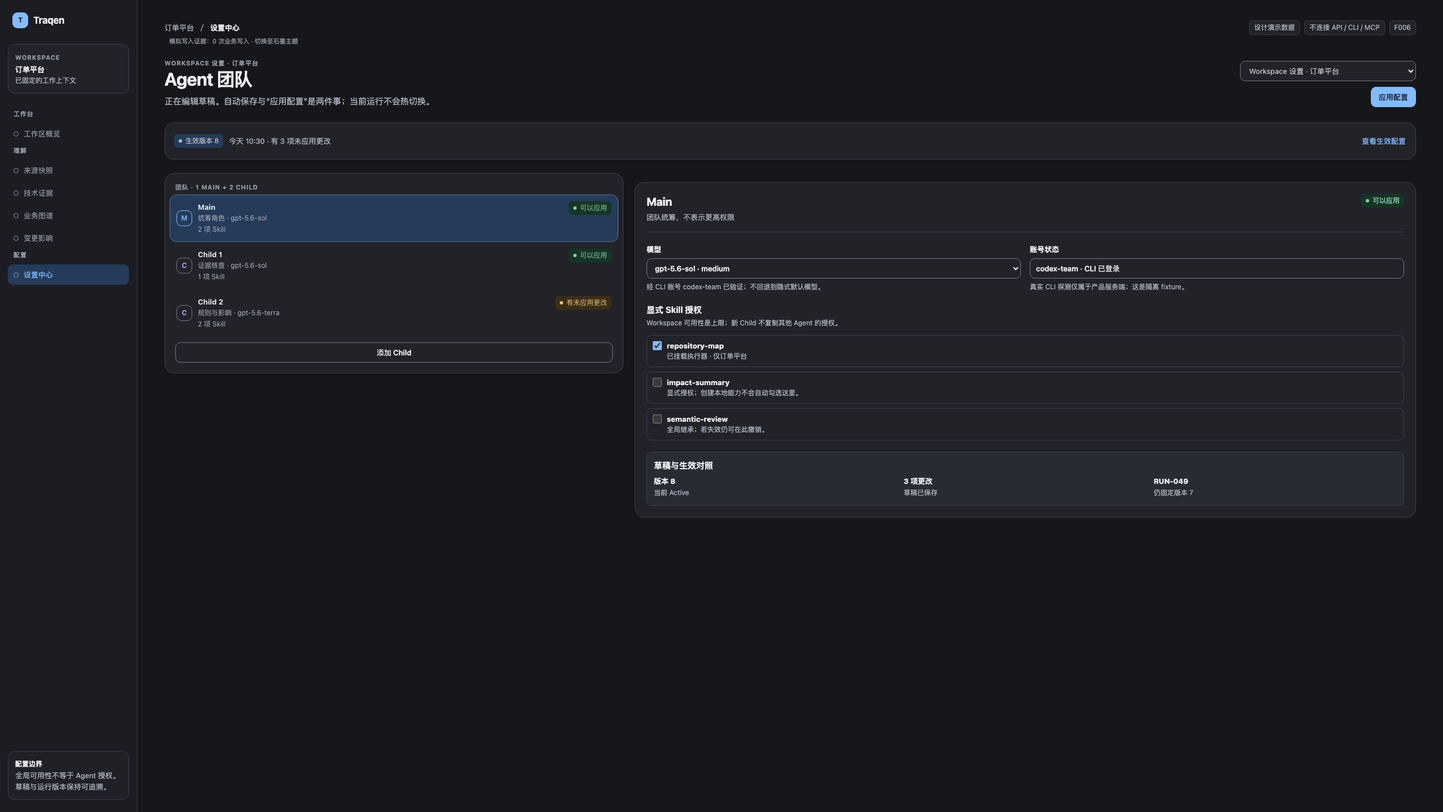
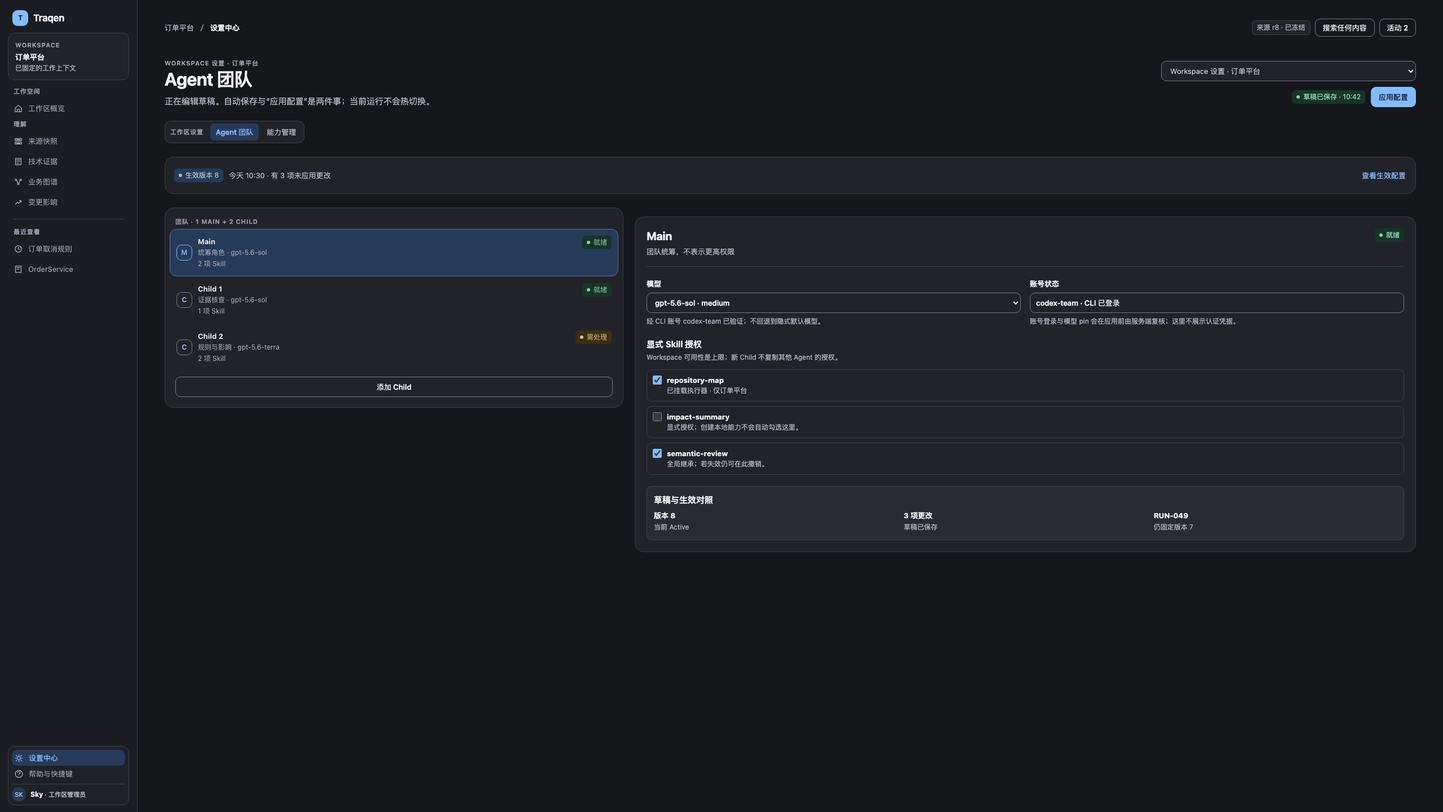
docs(f006): align pending UX review with F005 shell
Why: make the isolated F006 effect prototype faithfully use the F005 desktop shell, preserve honest draft versus Apply states, and freeze reviewable visual evidence without claiming operator approval.\n\n[搬砖工/gpt-5.6-terra🐾]

diff --git a/docs/design/F006-workspace-capability-settings/ux-v1.0/assets/prototype.html b/docs/design/F006-workspace-capability-settings/ux-v1.0/assets/prototype.html
@@ -30,20 +30,24 @@
     button:disabled { cursor: not-allowed; opacity: .54; }
     :focus-visible { outline: 3px solid var(--focus); outline-offset: 3px; }
     .shell { min-height: 100vh; display: grid; grid-template-columns: var(--sidebar) minmax(0, 1fr); }
-    .side { background: var(--nav); border-right: 1px solid var(--line); padding: 22px 14px; display: flex; flex-direction: column; gap: 28px; }
+    .side { background: var(--nav); border-right: 1px solid var(--line); padding: 18px 14px 12px; display: flex; flex-direction: column; gap: 12px; }
     .brand { display: flex; align-items: center; gap: 9px; padding: 0 8px; font-size: 17px; font-weight: 650; letter-spacing: -.2px; }
     .brand-mark { width: 28px; height: 28px; display: grid; place-items: center; border-radius: 9px; background: var(--blue); color: var(--on-blue); font-size: 12px; font-weight: 700; }
-    .workspace-chip { padding: 12px; border: 1px solid var(--line); background: var(--surface); border-radius: 12px; }
+    .workspace-chip { padding: 10px 12px; border: 1px solid var(--line); background: var(--surface); border-radius: 12px; }
     .workspace-chip small, .nav-label, .eyebrow { color: var(--meta); font-size: 11px; line-height: 16px; letter-spacing: .08em; text-transform: uppercase; font-weight: 650; }
     .workspace-chip strong { display: block; margin-top: 2px; font-size: 13px; }
-    .nav-group { display: grid; gap: 4px; }
-    .nav-label { padding: 0 10px 5px; }
-    .nav-item { min-height: 36px; width: 100%; padding: 0 10px; display: flex; gap: 9px; align-items: center; text-align: left; border: 0; border-radius: 9px; background: transparent; color: var(--muted); }
-    .nav-item::before { content: ""; width: 7px; height: 7px; border: 1.5px solid currentColor; border-radius: 50%; opacity: .8; }
+    .nav-group, .recent-list { display: grid; gap: 4px; }
+    .nav-label { padding: 0 10px 2px; }
+    .nav-item { min-height: 32px; width: 100%; padding: 0 10px; display: flex; gap: 9px; align-items: center; text-align: left; border: 0; border-radius: 9px; background: transparent; color: var(--muted); }
+    .nav-icon { width: 17px; height: 17px; flex: none; fill: none; stroke: currentColor; stroke-width: 1.7; stroke-linecap: round; stroke-linejoin: round; }
     .nav-item.current { color: var(--blue); background: var(--blue-soft); font-weight: 600; }
-    .side-foot { margin-top: auto; padding: 12px; border: 1px solid var(--line); border-radius: 12px; color: var(--muted); background: color-mix(in srgb, var(--surface) 72%, transparent); }
-    .side-foot strong { color: var(--text); display: block; font-size: 12px; }
-    main { min-width: 0; padding: 24px var(--gutter) 86px; }
+    .side-rule { height: 1px; background: var(--line); margin: 2px 10px; }
+    .side-foot { margin-top: auto; padding: 6px; border: 1px solid var(--line); border-radius: 12px; color: var(--muted); background: color-mix(in srgb, var(--surface) 72%, transparent); }
+    .side-foot .nav-item { min-height: 28px; padding: 0 4px; }
+    .account { display: grid; grid-template-columns: 25px minmax(0,1fr); gap: 8px; align-items: center; margin-top: 4px; padding-top: 5px; border-top: 1px solid var(--line); }
+    .account-avatar { width: 25px; height: 25px; display: grid; place-items: center; border-radius: 50%; background: var(--blue-soft); color: var(--blue); font-size: 10px; font-weight: 700; }
+    .account strong { display: block; color: var(--text); font-size: 12px; line-height: 16px; } .account span { color: var(--muted); font-size: 11px; font-weight: 500; }
+    main { min-width: 0; padding: 24px var(--gutter) 32px; }
     .topline { min-height: 34px; display: flex; align-items: center; justify-content: space-between; gap: 20px; color: var(--muted); }
     .crumb { display: flex; gap: 8px; align-items: center; white-space: nowrap; }
     .crumb b { color: var(--text); font-weight: 600; }
@@ -61,6 +65,10 @@
     .summary-row { margin-top: 24px; padding: 14px 16px; display: flex; justify-content: space-between; align-items: center; gap: 18px; border: 1px solid var(--line); border-radius: 16px; background: var(--surface); }
     .summary-row .summary-copy { display: flex; align-items: center; gap: 10px; min-width: 0; } .summary-row .summary-copy span { color: var(--muted); }
     .scope-select { min-height: 36px; border: 1px solid var(--control); border-radius: 9px; padding: 0 29px 0 11px; background: var(--surface); color: var(--text); }
+    .settings-secondary { margin-top: 21px; display: flex; align-items: center; gap: 4px; padding: 4px; width: fit-content; border: 1px solid var(--line); border-radius: 11px; background: var(--surface); }
+    .settings-secondary span { padding: 0 8px 0 5px; color: var(--meta); font-size: 11px; font-weight: 650; letter-spacing: .07em; text-transform: uppercase; }
+    .settings-secondary button { min-height: 30px; padding: 0 10px; border: 0; border-radius: 7px; background: transparent; color: var(--muted); font-weight: 550; }
+    .settings-secondary button.active { background: var(--blue-soft); color: var(--blue); }
     .content { margin-top: 24px; }
     .panel { border: 1px solid var(--line); border-radius: 16px; background: var(--surface); } .panel.pad { padding: 20px; } .panel + .panel { margin-top: 16px; }
     .section-head { display: flex; align-items: center; justify-content: space-between; gap: 16px; margin-bottom: 16px; } .section-head > p { color: var(--muted); }
@@ -83,8 +91,9 @@
     .versions { display: grid; grid-template-columns: minmax(0,1.25fr) minmax(290px,.75fr); gap: 20px; } .version-number { font-size: 28px; line-height: 38px; font-weight: 650; letter-spacing: -.3px; } .key-value { display: flex; justify-content: space-between; gap: 14px; padding: 11px 0; border-top: 1px solid var(--line); } .key-value span { color: var(--muted); } .key-value b { text-align: right; }
     .f003-grid { display: grid; grid-template-columns: minmax(0,1fr) minmax(290px,.82fr); gap: 20px; } .checklist { display: grid; gap: 8px; margin-top: 14px; } .checklist div { display: flex; gap: 9px; align-items: flex-start; padding: 10px; border: 1px solid var(--line); border-radius: 9px; } .checklist i { width: 16px; height: 16px; border-radius: 50%; background: var(--success); color: var(--on-blue); font-style: normal; font-size: 11px; line-height: 16px; text-align: center; flex: none; }
     dialog { width: min(520px, calc(100vw - 48px)); padding: 0; border: 1px solid var(--line); border-radius: 16px; background: var(--surface); color: var(--text); box-shadow: var(--shadow); } dialog::backdrop { background: rgba(18,20,26,.48); } .dialog-inner { padding: 24px; } .dialog-inner p { margin-top: 7px; color: var(--muted); font-size: 15px; line-height: 24px; } .dialog-actions { display: flex; justify-content: flex-end; gap: 9px; margin-top: 22px; }
-    .fixture-tools { position: static; width: fit-content; margin: 12px 16px 16px auto; max-width: min(470px, calc(100vw - 32px)); padding: 10px 12px; display: flex; align-items: center; gap: 9px; border: 1px dashed var(--control); border-radius: 12px; background: color-mix(in srgb, var(--surface) 94%, transparent); box-shadow: 0 8px 24px rgba(0,0,0,.10); color: var(--muted); } .fixture-tools strong { color: var(--text); font-size: 12px; } .fixture-tools label { display: inline-flex; gap: 6px; align-items: center; color: var(--muted); font-size: 12px; font-weight: 500; } .fixture-tools select { width: 122px; min-height: 30px; padding: 0 7px; } .theme-toggle { display: inline-flex; border: 1px solid var(--control); border-radius: 9px; overflow: hidden; } .theme-toggle button { min-height: 30px; padding: 0 8px; border: 0; background: transparent; color: var(--muted); } .theme-toggle button[aria-pressed="true"] { background: var(--blue-soft); color: var(--blue); font-weight: 650; }
-    .fixture-log { position: fixed; left: calc(var(--sidebar) + var(--gutter)); top: 61px; z-index: 4; max-width: 360px; padding: 4px 8px; border-radius: 6px; background: color-mix(in srgb, var(--page) 94%, transparent); color: var(--meta); font-size: 11px; line-height: 16px; }
+    .fixture-controls { display: flex; justify-content: flex-end; align-items: center; gap: 10px; width: fit-content; max-width: calc(100vw - 32px); margin: 16px 16px 28px auto; padding: 10px 12px; border: 1px dashed var(--control); border-radius: 12px; background: color-mix(in srgb, var(--surface) 94%, transparent); box-shadow: 0 8px 24px rgba(0,0,0,.10); color: var(--muted); }
+    .fixture-tools { display: flex; align-items: center; gap: 9px; } .fixture-tools strong { color: var(--text); font-size: 12px; } .fixture-tools label { display: inline-flex; gap: 6px; align-items: center; color: var(--muted); font-size: 12px; font-weight: 500; } .fixture-tools select { width: 122px; min-height: 30px; padding: 0 7px; } .theme-toggle { display: inline-flex; border: 1px solid var(--control); border-radius: 9px; overflow: hidden; } .theme-toggle button { min-height: 30px; padding: 0 8px; border: 0; background: transparent; color: var(--muted); } .theme-toggle button[aria-pressed="true"] { background: var(--blue-soft); color: var(--blue); font-weight: 650; }
+    .fixture-log { max-width: 290px; color: var(--meta); font-size: 11px; line-height: 16px; }
     @media (min-width: 1920px) { :root { --sidebar: 244px; --gutter: 48px; } main { padding-top: 32px; } .team-grid { grid-template-columns: minmax(390px,.74fr) minmax(670px,1.26fr); } .detail { min-height: 554px; } .page-head { margin-top: 38px; } .wide-only { display: block; margin-top: 20px; padding: 12px; border: 1px solid var(--line); border-radius: 9px; background: var(--surface-2); } .wide-only-grid { display: grid; grid-template-columns: repeat(3, minmax(0,1fr)); gap: 12px; margin-top: 7px; } .wide-only-grid b { display: block; font-size: 13px; } .wide-only-grid span { color: var(--muted); font-size: 12px; } }
     @media (max-width: 1320px) { :root { --gutter: 28px; } .team-grid { grid-template-columns: minmax(272px,.7fr) minmax(0,1.3fr); gap: 16px; } .status-pills .quiet-status:nth-child(2) { display: none; } }
     @media (prefers-reduced-motion: reduce) { *, *::before, *::after { scroll-behavior: auto !important; transition: none !important; animation: none !important; } }
@@ -96,21 +105,30 @@
       <div class="brand"><span class="brand-mark">T</span>Traqen</div>
       <div class="workspace-chip"><small>Workspace</small><strong>订单平台</strong><span class="subtle">已固定的工作上下文</span></div>
       <nav class="nav-group" aria-label="工作区导航">
-        <span class="nav-label">工作台</span><button class="nav-item">工作区概览</button>
-        <span class="nav-label">理解</span><button class="nav-item">来源快照</button><button class="nav-item">技术证据</button><button class="nav-item">业务图谱</button><button class="nav-item">变更影响</button>
-        <span class="nav-label">配置</span><button class="nav-item current" aria-current="page">设置中心</button>
+        <span class="nav-label">工作空间</span>
+        <button class="nav-item"><svg class="nav-icon" viewBox="0 0 24 24"><path d="m4 11 8-7 8 7v9H4zM9 20v-6h6v6"/></svg>工作区概览</button>
+        <span class="nav-label">理解</span>
+        <button class="nav-item"><svg class="nav-icon" viewBox="0 0 24 24"><path d="M4 5h16v5H4zM4 14h16v5H4zM8 8h8M8 17h8"/></svg>来源快照</button>
+        <button class="nav-item"><svg class="nav-icon" viewBox="0 0 24 24"><path d="M5 4h14v16H5zM8 8h8M8 12h8M8 16h5"/></svg>技术证据</button>
+        <button class="nav-item"><svg class="nav-icon" viewBox="0 0 24 24"><circle cx="6" cy="7" r="2"/><circle cx="18" cy="7" r="2"/><circle cx="12" cy="17" r="2"/><path d="m8 8.5 2.5 6M16 8.5l-2.5 6"/></svg>业务图谱</button>
+        <button class="nav-item"><svg class="nav-icon" viewBox="0 0 24 24"><path d="M5 17 10 12l3 3 6-7M15 8h4v4"/></svg>变更影响</button>
       </nav>
-      <div class="side-foot"><strong>配置边界</strong>全局可用性不等于 Agent 授权。草稿与运行版本保持可追溯。</div>
+      <div class="side-rule" aria-hidden="true"></div>
+      <section class="recent-list" data-testid="recent-viewed" aria-label="最近查看"><span class="nav-label">最近查看</span><button class="nav-item"><svg class="nav-icon" viewBox="0 0 24 24"><circle cx="12" cy="12" r="8"/><path d="M12 8v4l3 2"/></svg>订单取消规则</button><button class="nav-item"><svg class="nav-icon" viewBox="0 0 24 24"><path d="M5 4h14v16H5zM8 8h8M8 12h5"/></svg>OrderService</button></section>
+      <div class="side-foot"><button class="nav-item current" aria-current="page"><svg class="nav-icon" viewBox="0 0 24 24"><path d="M12 3v3M12 18v3M4.9 4.9 7 7M17 17l2.1 2.1M3 12h3M18 12h3M4.9 19.1 7 17M17 7l2.1-2.1"/><circle cx="12" cy="12" r="4"/></svg>设置中心</button><button class="nav-item"><svg class="nav-icon" viewBox="0 0 24 24"><circle cx="12" cy="12" r="9"/><path d="M9 9a3 3 0 0 1 6 0c0 2-3 2-3 5M12 17h.01"/></svg>帮助与快捷键</button><div class="account"><span class="account-avatar">SK</span><div><strong>Sky <span>· 工作区管理员</span></strong></div></div></div>
     </aside>
     <main>
-      <div class="topline"><div class="crumb"><span>订单平台</span><span>／</span><b>设置中心</b></div><div class="status-pills"><span class="quiet-status">设计演示数据</span><span class="quiet-status">不连接 API / CLI / MCP</span><span class="quiet-status">F006</span></div></div>
+      <div class="topline" data-testid="product-toolbar"><div class="crumb"><span>订单平台</span><span>／</span><b>设置中心</b></div><div class="status-pills"><span class="quiet-status">来源 r8 · 已冻结</span><button class="btn" style="min-height:32px">搜索任何内容</button><button class="btn" style="min-height:32px" aria-label="查看最近活动">活动 2</button></div></div>
       <section id="app" aria-live="polite"></section>
     </main>
   </div>
-  <div class="fixture-log" id="fixture-log">模拟写入证据：0 次业务写入</div>
-  <div class="fixture-tools" aria-label="设计演示控制，不属于产品壳">
-    <strong>设计演示数据</strong><label>场景 <select id="scene-select" aria-label="选择设计场景"></select></label>
-    <span class="theme-toggle" data-testid="theme-switcher"><button type="button" data-theme-choice="light">瓷白</button><button type="button" data-theme-choice="dark">石墨</button></span>
+  <aside class="fixture-controls" aria-label="设计演示控制，不属于产品壳">
+    <div class="fixture-log" id="fixture-log">模拟写入证据：0 次业务写入</div>
+    <div class="fixture-tools" data-testid="fixture-tools">
+      <strong>设计演示数据</strong><label>场景 <select id="scene-select" aria-label="选择设计场景"></select></label>
+      <span class="theme-toggle" data-testid="theme-switcher"><button type="button" data-theme-choice="light">瓷白</button><button type="button" data-theme-choice="dark">石墨</button></span>
+    </div>
+  </aside>
   </div>
   <dialog id="lifecycle-dialog" data-testid="lifecycle-dialog" aria-labelledby="dialog-title"><div class="dialog-inner"><span class="badge danger">影响确认</span><h2 id="dialog-title" style="margin-top:12px">停用 <span id="dialog-capability">semantic-review</span>？</h2><p>这会使 2 个 Workspace 的 3 项历史授权显示“需要处理”。已有生效版本和运行历史保留不变。</p><label style="margin-top:16px">输入能力名称以确认 <input id="confirm-name" autocomplete="off" placeholder="semantic-review"></label><div class="dialog-actions"><button class="btn" id="dialog-cancel">取消</button><button class="btn danger" id="dialog-confirm" disabled>确认停用</button></div></div></dialog>
   <dialog id="f003-dialog" aria-labelledby="f003-dialog-title"><div class="dialog-inner"><span class="badge warning">交互示意</span><h2 id="f003-dialog-title" style="margin-top:12px">尚未接入真实分析启动</h2><p>此点击只说明 F003 应在版本变化后要求确认；它不会读取材料、创建 Run 或调用旧启动 API。</p><div class="dialog-actions"><button class="btn primary" id="f003-close">知道了</button></div></div></dialog>
@@ -121,6 +139,11 @@
       };
       const saved = JSON.parse(localStorage.getItem('traqen-f006-ux-state') || '{}');
       const state = { scene: 'team', theme: localStorage.getItem('traqen-f006-ux-theme') || 'light', selected: saved.selected || 'main', child2Model: saved.child2Model || 'gpt-5.6-terra', conflict: Boolean(saved.conflict), m3: saved.m3 || '', logs: [], sentinels: { mainModel: 'gpt-5.6-sol', otherWorkspace: 'billing-workspace-unchanged' } };
+      const agentConfigs = Object.freeze({
+        main: { name: 'Main', role: '统筹角色', model: 'gpt-5.6-sol', skills: ['repository-map', 'semantic-review'], readiness: '就绪' },
+        'child-1': { name: 'Child 1', role: '证据核查', model: 'gpt-5.6-sol', skills: ['repository-map'], readiness: '就绪' },
+        'child-2': { name: 'Child 2', role: '规则与影响', model: 'gpt-5.6-terra', skills: ['impact-summary', 'semantic-review'], readiness: '需处理' },
+      });
       const $ = (selector, root=document) => root.querySelector(selector);
       const esc = value => String(value).replace(/[&<>"]/g, c => ({'&':'&amp;','<':'&lt;','>':'&gt;','"':'&quot;'}[c]));
       function persist() { localStorage.setItem('traqen-f006-ux-state', JSON.stringify({ selected: state.selected, child2Model: state.child2Model, conflict: state.conflict, m3: state.m3 })); }
@@ -130,13 +153,15 @@
       function head(kicker, title, description, action='') { return `<header class="page-head"><div><p class="eyebrow">${kicker}</p><h1>${title}</h1><p>${description}</p></div><div class="head-actions">${action}</div></header>`; }
       function pill(kind, text) { return `<span class="badge ${kind}">${text}</span>`; }
       function scope(value='workspace') { return `<select class="scope-select" data-testid="scope-switcher" aria-label="配置范围"><option ${value === 'global' ? 'selected':''}>全局设置</option><option ${value === 'workspace' ? 'selected':''}>Workspace 设置 · 订单平台</option></select>`; }
-      function teamCards() { const data = [['main','Main','统筹角色','gpt-5.6-sol','2 项 Skill','可以应用'],['child-1','Child 1','证据核查','gpt-5.6-sol','1 项 Skill','可以应用'],['child-2','Child 2','规则与影响','gpt-5.6-terra','2 项 Skill','有未应用更改']]; return `<section class="panel agent-list"><div class="agent-section-title">团队 · 1 Main + 2 Child</div>${data.map(([id,name,role,model,skills,status]) => `<button class="agent-card ${state.selected === id ? 'selected':''}" data-agent="${id}" ${id === 'child-2' ? 'data-testid="agent-child-2"':''}><span class="agent-icon">${id === 'main'?'M':'C'}</span><span><b>${name}</b><small>${role} · ${model}</small><small>${skills}</small></span>${pill(status === '可以应用' ? 'success':'warning', status)}</button>`).join('')}<button class="btn" style="margin:10px;width:calc(100% - 20px)">添加 Child</button></section>`; }
-      function inspector() { const isChild2 = state.selected === 'child-2'; const title = state.selected === 'main' ? 'Main' : state.selected === 'child-1' ? 'Child 1' : 'Child 2'; const model = isChild2 ? state.child2Model : 'gpt-5.6-sol'; return `<section class="panel detail" aria-label="${title} 配置详情"><div class="detail-head"><div><h2>${title}</h2><p>${isChild2 ? '规则与影响的并行分析角色' : state.selected === 'main' ? '团队统筹，不表示更高权限' : '证据核查的并行分析角色'}</p></div>${pill(isChild2 ? 'warning':'success', isChild2 ? '有未应用更改':'可以应用')}</div><div class="fields"><label>模型 <select id="agent-model" data-testid="agent-model"><option ${model === 'gpt-5.6-sol'?'selected':''}>gpt-5.6-sol · medium</option><option ${model === 'gpt-5.6-terra'?'selected':''}>gpt-5.6-terra · high</option></select><span>经 CLI 账号 codex-team 已验证；不回退到隐式默认模型。</span></label><label>账号状态 <input value="codex-team · CLI 已登录" readonly><span>真实 CLI 探测仅属于产品服务端；这是隔离 fixture。</span></label></div><div class="grant-block"><h3>显式 Skill 授权</h3><p>Workspace 可用性是上限；新 Child 不复制其他 Agent 的授权。</p><div class="grant-list"><label class="check-row"><input type="checkbox" checked><span><b>repository-map</b><br>已挂载执行器 · 仅订单平台</span></label><label class="check-row"><input type="checkbox" ${isChild2 ? 'checked':''}><span><b>impact-summary</b><br>显式授权；创建本地能力不会自动勾选这里。</span></label><label class="check-row"><input type="checkbox" ${isChild2 ? 'checked':''}><span><b>semantic-review</b><br>全局继承；若失效仍可在此撤销。</span></label></div></div><div class="wide-only"><h3>草稿与生效对照</h3><div class="wide-only-grid"><div><b>版本 8</b><span>当前 Active</span></div><div><b>3 项更改</b><span>草稿已保存</span></div><div><b>RUN-049</b><span>仍固定版本 7</span></div></div></div></section>`; }
-      function team() { return `${head('Workspace 设置 · 订单平台', 'Agent 团队', '正在编辑草稿。自动保存与“应用配置”是两件事；当前运行不会热切换。', `${scope()}<button class="btn primary" id="apply" data-testid="apply-config">应用配置</button>`)}<div class="summary-row"><div class="summary-copy">${pill('blue','生效版本 8')}<span>今天 10:30 · 有 3 项未应用更改</span></div><button class="btn link">查看生效配置</button></div><section class="content team-grid">${teamCards()}${inspector()}</section>`; }
+      function agentConfig(id=state.selected) { const config = agentConfigs[id]; return { ...config, model: id === 'child-2' ? state.child2Model : config.model }; }
+      function workspaceSettingsNav(active) { return `<nav class="settings-secondary" data-testid="workspace-settings-nav" aria-label="Workspace 设置导航"><span>工作区设置</span><button type="button" class="${active === 'team' ? 'active':''}" data-scene="team" ${active === 'team' ? 'aria-current="page"':''}>Agent 团队</button><button type="button" class="${active === 'capabilities' ? 'active':''}" data-scene="capabilities" ${active === 'capabilities' ? 'aria-current="page"':''}>能力管理</button></nav>`; }
+      function teamCards() { return `<section class="panel agent-list"><div class="agent-section-title">团队 · 1 Main + 2 Child</div>${Object.entries(agentConfigs).map(([id, base]) => { const agent = agentConfig(id); const kind = agent.readiness === '就绪' ? 'success' : 'warning'; return `<button class="agent-card ${state.selected === id ? 'selected':''}" data-agent="${id}" data-skill-count="${agent.skills.length}" ${id === 'child-2' ? 'data-testid="agent-child-2"':''}><span class="agent-icon">${id === 'main'?'M':'C'}</span><span><b>${agent.name}</b><small>${agent.role} · ${agent.model}</small><small>${agent.skills.length} 项 Skill</small></span>${pill(kind, agent.readiness)}</button>`; }).join('')}<button class="btn" style="margin:10px;width:calc(100% - 20px)">添加 Child</button></section>`; }
+      function inspector() { const agent = agentConfig(); const isChild2 = state.selected === 'child-2'; const skillDescription = { 'repository-map': ['已挂载执行器 · 仅订单平台', 'Workspace 可用性是上限，不会自动配给其他 Agent。'], 'impact-summary': ['显式授权；创建本地能力不会自动勾选这里。', '本地能力可用不等于任何 Agent 已获授权。'], 'semantic-review': ['全局继承；若失效仍可在此撤销。', '生命周期变更会在这里标记为需要处理。'] }; return `<section class="panel detail" aria-label="${agent.name} 配置详情"><div class="detail-head"><div><h2>${agent.name}</h2><p>${isChild2 ? '规则与影响的并行分析角色' : state.selected === 'main' ? '团队统筹，不表示更高权限' : '证据核查的并行分析角色'}</p></div>${pill(agent.readiness === '就绪' ? 'success':'warning', agent.readiness)}</div><div class="fields"><label>模型 <select id="agent-model" data-testid="agent-model"><option ${agent.model === 'gpt-5.6-sol'?'selected':''}>gpt-5.6-sol · medium</option><option ${agent.model === 'gpt-5.6-terra'?'selected':''}>gpt-5.6-terra · high</option></select><span>经 CLI 账号 codex-team 已验证；不回退到隐式默认模型。</span></label><label>账号状态 <input value="codex-team · CLI 已登录" readonly><span>账号登录与模型 pin 会在应用前由服务端复核；这里不展示认证凭据。</span></label></div><div class="grant-block"><h3>显式 Skill 授权</h3><p>Workspace 可用性是上限；新 Child 不复制其他 Agent 的授权。</p><div class="grant-list">${['repository-map','impact-summary','semantic-review'].map(skill => `<label class="check-row"><input type="checkbox" ${agent.skills.includes(skill) ? 'checked':''}><span><b>${skill}</b><br>${skillDescription[skill][0]}</span></label>`).join('')}</div></div><div class="wide-only"><h3>草稿与生效对照</h3><div class="wide-only-grid"><div><b>版本 8</b><span>当前 Active</span></div><div><b>3 项更改</b><span>草稿已保存</span></div><div><b>RUN-049</b><span>仍固定版本 7</span></div></div></div></section>`; }
+      function team() { return `${head('Workspace 设置 · 订单平台', 'Agent 团队', '正在编辑草稿。自动保存与“应用配置”是两件事；当前运行不会热切换。', `${scope()}${pill('success','草稿已保存 · 10:42').replace('class="badge success"', 'class="badge success" data-testid="draft-saved"')}<button class="btn primary" id="apply" data-testid="apply-config">应用配置</button>`)}${workspaceSettingsNav('team')}<div class="summary-row"><div class="summary-copy">${pill('blue','生效版本 8')}<span>今天 10:30 · 有 3 项未应用更改</span></div><button class="btn link">查看生效配置</button></div><section class="content team-grid">${teamCards()}${inspector()}</section>`; }
       function empty() { return `${head('设置中心', '先准备可信的配置资产', '全局资产、Workspace 可用范围和 Agent 授权分别决定不同的事情。', scope())}<section class="content panel pad"><div class="section-head"><div><h2>订单平台尚未配置团队</h2><p class="subtle">最低结构是一个 Main 与一个 Child；不会静默填入默认模型。</p></div>${pill('warning','需要准备模型')}</div><div class="quad"><div class="panel pad"><h3>1 · 添加账号</h3><p class="subtle" style="margin-top:5px">保存安全引用或检查 CLI 登录状态。</p><button class="btn link" style="margin-top:14px">前往账号</button></div><div class="panel pad"><h3>2 · 创建 CLI 模型</h3><p class="subtle" style="margin-top:5px">模型验证成功也不自动配给 Agent。</p><button class="btn link" style="margin-top:14px">前往模型</button></div><div class="panel pad"><h3>3 · 配置 Main</h3><p class="subtle" style="margin-top:5px">显示实际模型与账号状态。</p><button class="btn link" style="margin-top:14px">选择模型</button></div><div class="panel pad"><h3>4 · 配置 Child</h3><p class="subtle" style="margin-top:5px">至少一个 Child，授权不从 Main 复制。</p><button class="btn link" style="margin-top:14px">添加 Child</button></div></div><div class="notice" style="margin-top:16px"><span class="dot"></span><div><strong>不能应用配置</strong><br>先完成 Main 与 Child 的模型配置。草稿仍可保存，运行不会因此创建。</div></div></section>`; }
-      function accounts() { return `${head('全局设置', '账号', '保存的是认证引用与 CLI 状态摘要；不显示密钥，也不在 Traqen 内发起 OAuth 登录。', scope('global'))}<section class="content form-grid"><div class="panel pad"><div class="section-head"><h2>添加 API Key 引用</h2>${pill('blue','全局资产')}</div><div class="form-stack"><label>账号名称 <input value="OpenAI 团队账号"></label><label>Secret 引用 <input value="env://OPENAI_API_KEY" aria-invalid="true"><span class="error-text">当前隔离环境没有读取该变量；引用保留，未泄露密钥值。</span></label><p class="field-help">仅支持 <code>env://VARIABLE_NAME</code>；保存引用与连接检查分开。</p><button class="btn primary">保存引用</button></div></div><div class="panel pad"><div class="section-head"><h2>OAuth 状态</h2>${pill('warning','需要处理')}</div><div class="timeline"><div class="event"><i></i><div><b>Claude CLI</b><p>等待 CLI 登录。请在受支持的 CLI 完成登录后回到这里检查。</p></div></div><div class="event"><i></i><div><b>Codex CLI</b><p>检查失败 · 找不到本地 CLI。重试不会改变认证状态。</p></div></div></div><button class="btn" style="margin-top:16px">重新检查</button></div></section>`; }
+      function accounts() { return `${head('全局设置', '账号', '保存的是认证引用与 CLI 状态摘要；不显示密钥，也不在 Traqen 内发起 OAuth 登录。', scope('global'))}<section class="content form-grid"><div class="panel pad"><div class="section-head"><h2>添加 API Key 引用</h2>${pill('blue','全局资产')}</div><div class="form-stack"><label>账号名称 <input value="OpenAI 团队账号"></label><label>Secret 引用 <input value="env://OPENAI_API_KEY" aria-invalid="true"><span class="error-text">未发现该环境变量；引用已保留，未显示密钥值。</span></label><p class="field-help">仅支持 <code>env://VARIABLE_NAME</code>；保存引用与连接检查分开。</p><button class="btn primary">保存引用</button></div></div><div class="panel pad"><div class="section-head"><h2>OAuth 状态</h2>${pill('warning','需要处理')}</div><div class="timeline"><div class="event"><i></i><div><b>Claude CLI</b><p>等待 CLI 登录。请在受支持的 CLI 完成登录后回到这里检查。</p></div></div><div class="event"><i></i><div><b>Codex CLI</b><p>检查失败 · 找不到本地 CLI。重试不会改变认证状态。</p></div></div></div><button class="btn" style="margin-top:16px">重新检查</button></div></section>`; }
       function models() { return `${head('全局设置', 'CLI 模型与 Skill', '只允许受支持的 CLI 执行；账号、模型 pin 和就绪性不足时不能进入 Agent 选择器。', scope('global'))}<section class="content form-grid"><div class="panel pad"><div class="section-head"><h2>模型目录</h2><button class="btn">添加模型</button></div><table class="table"><thead><tr><th>名称</th><th>CLI / 模型</th><th>状态</th></tr></thead><tbody><tr><td><b>订单分析</b><small>codex-team</small></td><td>Codex · gpt-5.6-sol<br><small>medium</small></td><td>${pill('success','READY')}</td></tr><tr><td><b>规则核查</b><small>claude-team</small></td><td>Claude · 未固定模型<br><small>模型 pin 缺失</small></td><td>${pill('warning','需要处理')}</td></tr></tbody></table><div class="notice danger" style="margin-top:15px"><span class="dot"></span><div><strong>验证失败</strong><br>“规则核查”保留在目录中，不会悄悄清空或替换当前选择。</div></div></div><div class="panel pad"><div class="section-head"><h2>Skill 执行器</h2>${pill('purple','服务端映射')}</div><p class="subtle">新增 Skill 只能选择实际挂载的执行器；手填“已验证”不会产生授权。</p><div class="grant-list"><label>能力名称 <input value="semantic-review"></label><label>已挂载执行器 <select><option>semantic-reviewer · v3.2</option></select><span>映射与验证结果由服务端生成。</span></label><label class="check-row"><input type="checkbox"><span><b>我已核对执行器</b><br>只是创建前确认；不替代服务器验证。</span></label></div><button class="btn primary" style="margin-top:16px">添加 Skill</button></div></section>`; }
-      function capabilities() { const card = (title,count,body) => `<section class="panel group-card"><h3>${title}<span>${count}</span></h3>${body}</section>`; return `${head('Workspace 设置 · 订单平台', '能力管理', '四组可用范围与每个 Agent 的显式授权分开管理。', `${scope()}<button class="btn primary">应用配置</button>`)}<section class="content split"><nav class="panel local-nav" aria-label="Workspace 设置导航"><button>Agent 团队</button><button class="active">能力管理</button><button>MCP <span class="subtle" style="display:inline">已暂停</span></button></nav><div class="quad">${card('继承且可用','2',`<div class="cap-row"><b>repository-map</b><p>全局启用 · Workspace 未禁用</p><button class="btn link inline">在此 Workspace 禁用</button></div><div class="cap-row"><b>semantic-review</b><p>全局启用 · 已授权给 Child 2</p></div>`)}${card('本 Workspace 已禁用','1',`<div class="cap-row"><b>release-notes</b><p>恢复只改变可用范围，不自动恢复 Agent 授权。</p><button class="btn link inline">恢复继承</button></div>`)}${card('全局不可用','1',`<div class="cap-row"><b>legacy-lint</b><p>执行器映射缺失 · 当前 Child 1 仍保留可撤销的历史授权。</p><button class="btn link inline">前往 Child 1 撤销授权</button></div>`)}${card('Workspace 本地','1',`<div class="cap-row"><b>order-language</b><p>仅订单平台 · 已挂载执行器</p><button class="btn link inline">编辑本地 Skill</button></div><button class="btn" style="margin-top:14px">添加本地 Skill</button>`)}</div></section>`; }
+      function capabilities() { const card = (title,count,body) => `<section class="panel group-card"><h3>${title}<span>${count}</span></h3>${body}</section>`; return `${head('Workspace 设置 · 订单平台', '能力管理', '四组可用范围与每个 Agent 的显式授权分开管理。', `${scope()}<button class="btn primary">应用配置</button>`)}${workspaceSettingsNav('capabilities')}<section class="content"><div class="quad">${card('继承且可用','2',`<div class="cap-row"><b>repository-map</b><p>全局启用 · Workspace 未禁用</p><button class="btn link inline">在此 Workspace 禁用</button></div><div class="cap-row"><b>semantic-review</b><p>全局启用 · 已授权给 Child 2</p></div>`)}${card('本 Workspace 已禁用','1',`<div class="cap-row"><b>release-notes</b><p>恢复只改变可用范围，不自动恢复 Agent 授权。</p><button class="btn link inline">恢复继承</button></div>`)}${card('全局不可用','1',`<div class="cap-row"><b>legacy-lint</b><p>执行器映射缺失 · 当前 Child 1 仍保留可撤销的历史授权。</p><button class="btn link inline">前往 Child 1 撤销授权</button></div>`)}${card('Workspace 本地','1',`<div class="cap-row"><b>order-language</b><p>仅订单平台 · 已挂载执行器</p><button class="btn link inline">编辑本地 Skill</button></div><button class="btn" style="margin-top:14px">添加本地 Skill</button>`)}</div></section>`; }
       function conflict() { const events = state.logs.filter(x => x.type === 'draft-save' || x.type === 'activation').map(x => `<div class="event"><i></i><div><b>${x.type === 'activation' ? 'Apply 请求' : '草稿写入'} · ${esc(x.detail)}</b><p>${x.write ? '模拟业务写入' : '展示事件'}</p></div></div>`).join(''); return `${head('Workspace 设置 · 订单平台', '草稿冲突恢复', '409 发生后，保留本地编辑，冻结失败快照；不会后台循环写入。', `${scope()}<button class="btn primary" disabled data-testid="conflict-apply">应用配置</button>`)}<section class="content form-grid"><div><div class="panel pad"><div class="notice danger"><span class="dot"></span><div><strong>草稿已在其他位置更新</strong><br>M2 保存收到 409。M3 继续编辑会被保留，但不会在冲突期间再发起 PUT。</div></div><div class="form-stack" style="margin-top:16px"><label>M2：失败时冻结的模型 <select id="m2-model"><option>gpt-5.6-terra · high</option></select></label><label>M3：更晚的说明 <input id="m3-note" value="${esc(state.m3)}" placeholder="继续编辑 M3，不会立即写入"></label><div><button class="btn primary" id="conflict-retry" data-testid="conflict-retry">重试我的草稿</button><button class="btn" id="conflict-server" style="margin-left:8px">采用服务器草稿</button></div></div></div><div class="panel pad"><h2>恢复顺序</h2><div class="timeline"><div class="event"><i></i><div><b>1 · 冻结 M2</b><p>只确认实际要重新保存的 M2，不把尚未发送的 M3 标作已保存。</p></div></div><div class="event"><i></i><div><b>2 · 确认 M2</b><p>恢复成功后，M3 仍为待保存编辑。</p></div></div><div class="event"><i></i><div><b>3 · 恰好补存一次 M3</b><p>写入日志可核对，无循环重试。</p></div></div></div></div></div><div class="panel pad" style="margin-top:16px"><div class="section-head"><h2>模拟事件日志</h2>${pill('warning','冲突中')}</div><div class="timeline" id="event-log">${events || '<p class="subtle">点击“重试我的草稿”演示 M2 → M3 的有界恢复。</p>'}</div></div></section>`; }
       function lifecycle() { return `${head('全局设置', '能力生命周期', '停用或删除前先取得当前影响；取消不会写入，完成后历史版本不被篡改。', scope('global'))}<section class="content panel pad"><div class="section-head"><div><h2>semantic-review</h2><p class="subtle">Skill · 已挂载执行器 semantic-reviewer v3.2</p></div>${pill('success','ACTIVE')}</div><div class="versions"><div><div class="notice"><span class="dot"></span><div><strong>将影响 2 个 Workspace / 3 项授权</strong><br>服务端影响清单成功加载后才允许继续；名称确认是对当前对象的确认，不是通用确认。</div></div><table class="table" style="margin-top:16px"><thead><tr><th>Workspace</th><th>Agent</th><th>现状</th></tr></thead><tbody><tr><td>订单平台</td><td>Child 2</td><td>授权有效</td></tr><tr><td>客户运营</td><td>Main / Child 1</td><td>授权有效</td></tr></tbody></table></div><div class="panel pad"><h3>生命周期操作</h3><p class="subtle" style="margin-top:5px">停用后，受影响团队显示“需要处理”，仍可撤销失效授权。</p><button class="btn danger" id="open-lifecycle" style="margin-top:17px">停用能力</button><p class="field-help" style="margin-top:16px">焦点会在取消后回到这一行的原操作。</p></div></div></section>`; }
       function mcp() { return `${head('全局设置', 'MCP', 'MCP 接入暂不推进。历史配置仅供查看，不代表当前可执行能力。', scope('global'))}<section class="content split"><nav class="panel local-nav" aria-label="全局设置导航"><button>账号</button><button>模型</button><button>Skill</button><button class="active">MCP · 已暂停</button></nav><div><section class="panel pad" data-testid="mcp-paused"><div class="section-head"><div><h2>MCP 已暂停</h2><p class="subtle">本期没有创建、导入、检测、连接、激活或新增授权入口。</p></div>${pill('warning','已暂停')}</div><div class="notice"><span class="dot"></span><div><strong>不显示 READY 或“已连接”</strong><br>受限与不支持不是加载中；不能让历史记录暗示当前可以执行。</div></div><table class="table" style="margin-top:18px"><thead><tr><th>历史引用</th><th>范围</th><th>状态</th><th></th></tr></thead><tbody><tr><td><b>search</b><small>MCP 历史身份保留</small></td><td>订单平台 · Child 1</td><td>${pill('warning','只读 / 暂停')}</td><td class="row-actions"><button class="btn">到团队移除授权</button></td></tr></tbody></table></section></div></section>`; }
@@ -145,6 +170,7 @@
       function content() { return ({empty, accounts, models, team, capabilities, conflict, lifecycle, mcp, versions, f003}[state.scene] || team)(); }
       function bind() {
         document.querySelectorAll('[data-agent]').forEach(button => button.addEventListener('click', () => { state.selected = button.dataset.agent; persist(); render(); }));
+        document.querySelectorAll('[data-scene]').forEach(button => button.addEventListener('click', () => navigate(button.dataset.scene)));
         $('#agent-model')?.addEventListener('change', event => { if (state.selected === 'child-2') { state.child2Model = event.target.value.split(' · ')[0]; persist(); log('draft-save', 'Child 2 仅改变自己的草稿；Main 与其他 Workspace sentinel 未变', true); render(); } });
         $('#m3-note')?.addEventListener('input', event => { state.m3 = event.target.value; persist(); log('local-edit', 'M3 在 409 横幅期间保留为本地编辑，零额外写入', false); });
         $('#conflict-retry')?.addEventListener('click', () => { log('draft-save', 'M2 冻结快照 → 200 已确认', true); log('draft-save', 'M3 更晚编辑 → 200 恰好补存一次', true); state.conflict = false; persist(); render(); });

diff --git a/docs/design/F006-workspace-capability-settings/ux-v1.0/README.md b/docs/design/F006-workspace-capability-settings/ux-v1.0/README.md
@@ -5,7 +5,7 @@ topics: [desktop-ux, settings, fixture-prototype, porcelain, graphite]
 doc_kind: ux-effect-prototype
 created: 2026-09-18
 version: "1.0"
-status: published-fixture-prototype
+status: operator-review-pending-fixture-prototype
 source_design: ../README.md
 ---
 
@@ -13,7 +13,7 @@ source_design: ../README.md
 
 [返回 F006 功能与 UX 设计](../README.md) · [F005 V2.1 体验总纲](../../../design-reviews/F005/README.md) · [离线交互样稿](assets/prototype.html) · [作者验证记录](assets/verification.json)
 
-这是 F006 设计文档 §10 的独立效果图交付：一份可维护的、使用构造数据的离线 HTML 原型和实际浏览器渲染图片。它只验证视觉、交互示意与 fixture 控制流，**不是**生产前端接线、后端、CLI、凭据、MCP 或 F003 启动实现的完成声明。
+这是 F006 设计文档 §10 的**待 operator 审查**效果图稿：一份可维护的、使用构造数据的离线 HTML 原型和实际浏览器渲染图片。它只验证视觉、交互示意与 fixture 控制流，**不是**生产前端接线、后端、CLI、凭据、MCP 或 F003 启动实现的完成声明，也不表示 operator 已批准或已合入。
 
 ## 先看 S04：同一团队，四张桌面主图
 
@@ -63,21 +63,23 @@ source_design: ../README.md
 
 `prototype.html` 的场景选择器、主题切换、Agent 选择、Child 2 模型编辑、409 恢复、生命周期确认/取消和 F003 提示均可操作。调试控制显式标注“设计演示数据”，位于产品壳外。
 
-`render.mjs` 用一次性 loopback 静态服务器和临时 headless Chrome profile 生成图片，并写入 [verification.json](assets/verification.json)。本次验证结果：17 张截图、0 个浏览器页面错误，以及以下 7 项通过项：
+`render.mjs` 用一次性 loopback 静态服务器和临时 headless Chrome profile 生成图片，并写入 [verification.json](assets/verification.json)。本次作者验证结果：17 张截图、0 个浏览器页面错误，以及以下 8 项通过项：
 
 1. S01–S10 渲染时都有一个页面 h1，页面与控件没有横向溢出。
 2. S04 在 1440×900、2560×1440 的双主题主图，以及 1280×800、1920×1080 补充布局中保持非缩放的桌面文字与控件尺寸。
-3. 切主题与刷新都保留选中的 Child，且主题动作的模拟业务写入为零。
-4. 修改 Child 2 只产生一次 fixture 草稿写入；Main 和另一 Workspace 的 sentinel 不变。
-5. M2 409 → M3 本地编辑 → 重试依次得到 `M2(409)`、`M2(200)`、`M3(200)`；冲突中没有额外 PUT，也没有 activation 请求。
-6. 取消生命周期确认会关闭具名弹窗、把焦点返还原操作行，并产生零 fixture 业务写入。
-7. 原生 button/input/select/dialog 可获得键盘焦点；Escape 能关闭影响确认弹窗而不形成焦点陷阱。
+3. F005 AppShell 有图标导航、最近查看、帮助与账号脚；调试控制在产品壳外；Workspace 二级导航与“草稿已保存”在壳内可见，每张 Agent 卡的 Skill 数量均与其勾选授权一致。
+4. 切主题与刷新都保留选中的 Child，且主题动作的模拟业务写入为零。
+5. 修改 Child 2 只产生一次 fixture 草稿写入；Main 和另一 Workspace 的 sentinel 不变。
+6. M2 409 → M3 本地编辑 → 重试依次得到 `M2(409)`、`M2(200)`、`M3(200)`；冲突中没有额外 PUT，也没有 activation 请求。
+7. 取消生命周期确认会关闭具名弹窗、把焦点返还原操作行，并产生零 fixture 业务写入。
+8. 原生 button/input/select/dialog 可获得键盘焦点；Escape 能关闭影响确认弹窗而不形成焦点陷阱。
 
 复现（替换为本机 Chrome 绝对路径）：
 
 ```sh
 node assets/verify-contract.mjs
 node assets/render.mjs /absolute/path/to/Google\ Chrome
+(cd assets && shasum -a 256 -c SHA256SUMS)
 ```
 
 [SHA256SUMS](assets/SHA256SUMS) 绑定 `prototype.html` 与本次 17 张原型截图；before 图单独标识为当前 main 的隔离宿主证据，不与原型效果图混作同一渲染源。
